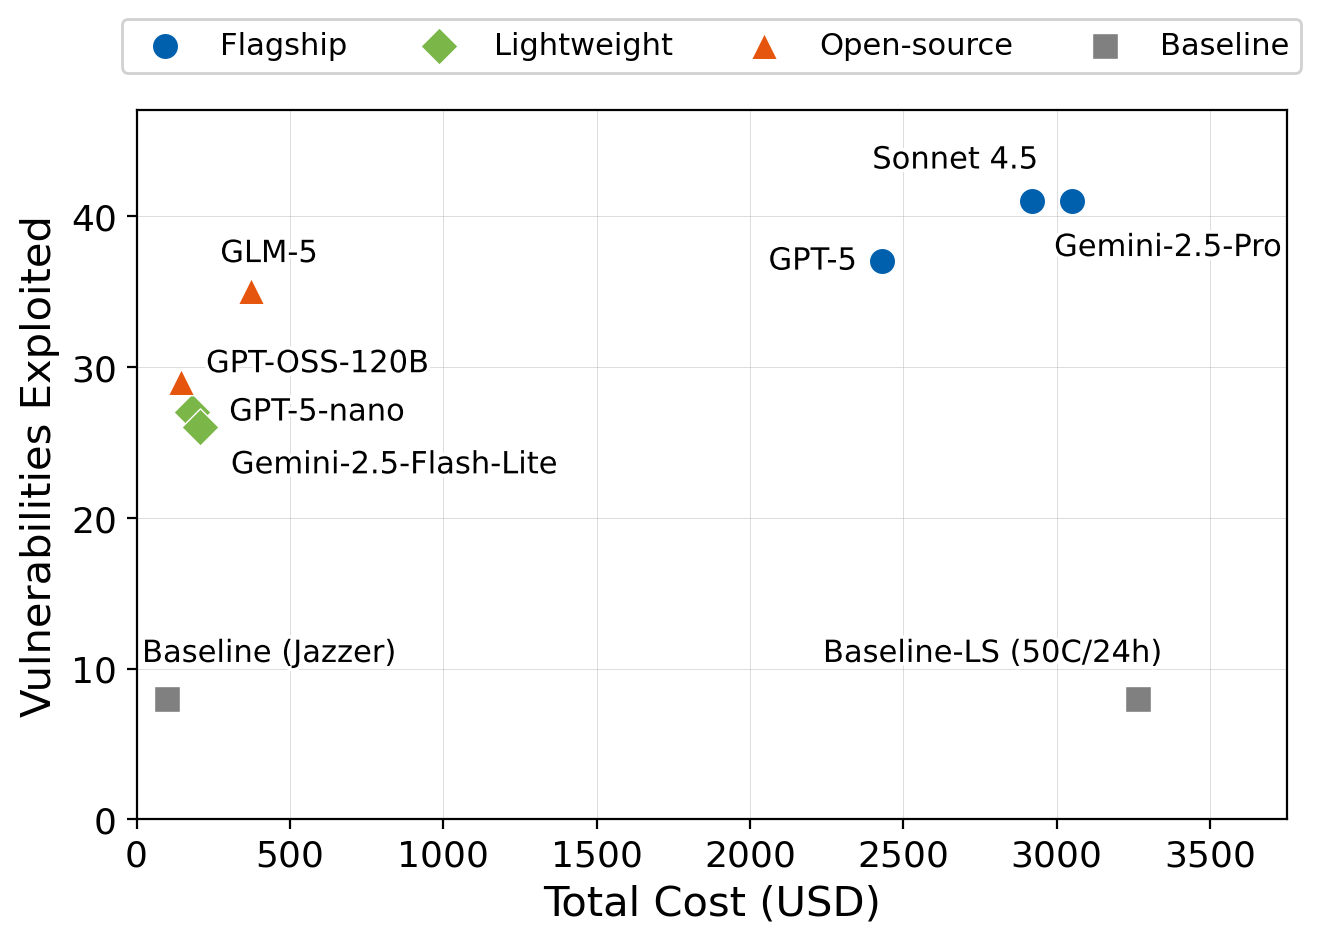
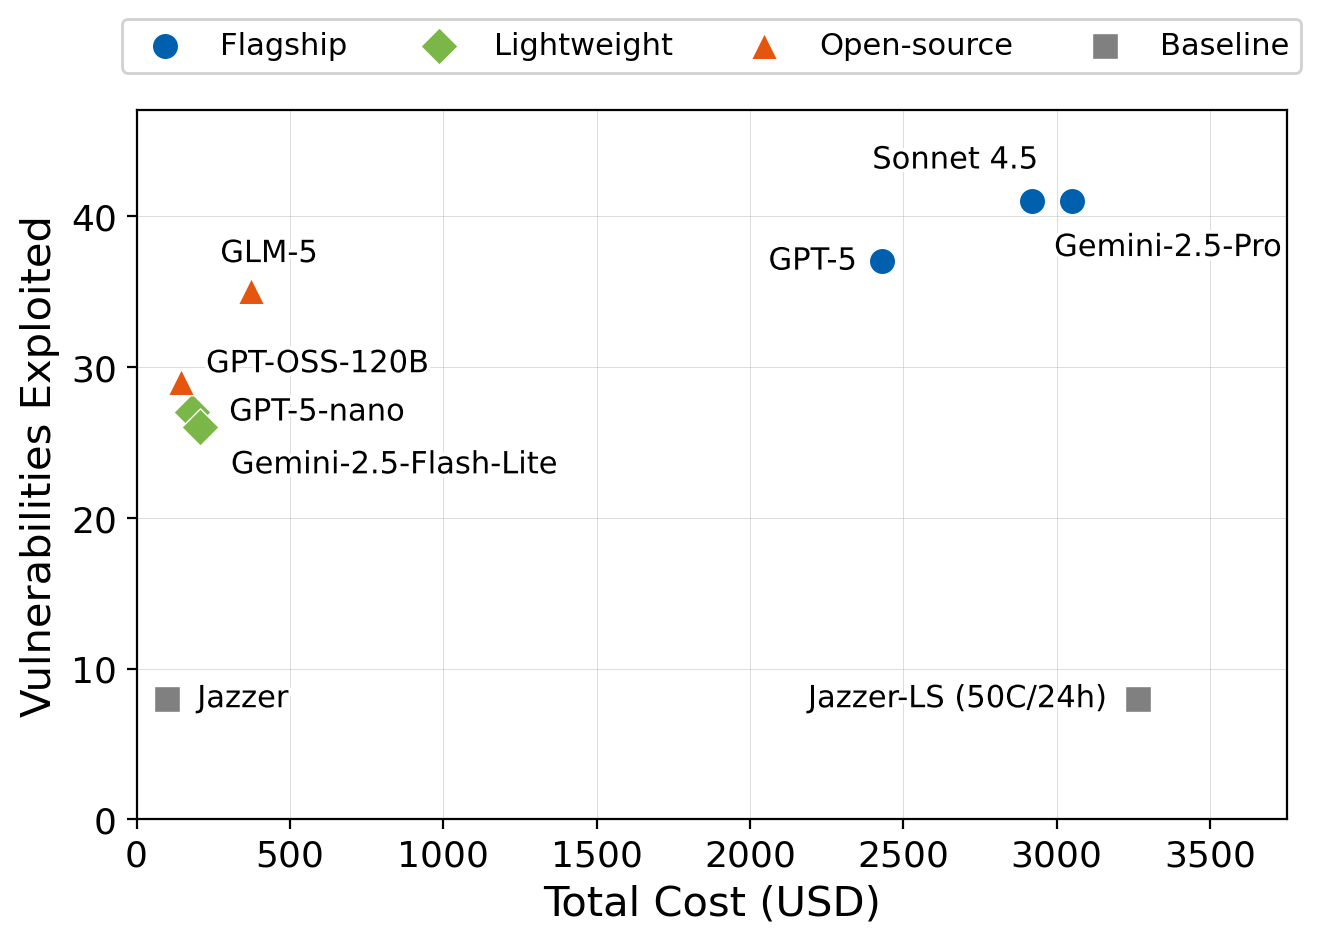
Update blog post

Changed region(s): [[0.6207, 0.6758, 0.869, 0.768], [0.0931, 0.6758, 0.3104, 0.768]]

diff --git a/content/english/blog/post-sinkfuzz-glm.md b/content/english/blog/post-sinkfuzz-glm.md
@@ -7,18 +7,22 @@ image: "/images/blog/sinkfuzz-glm/cover.png"
 categories: ["post-aixcc"]
 authors: ["Fabian Fleischer", "Cen Zhang"]
 tags: ["fuzzing", "java", "llm", "vulnerability discovery", "gondar"]
-draft: true
+draft: false
 ---
 
-As part of [Team Atlanta's](https://team-atlanta.github.io/) winning entry in the DARPA AIxCC competition, we built Gondar, a system that combines LLM agents with coverage-guided fuzzing to find security vulnerabilities in Java applications. Gondar served as part of the Java vulnerability discovery component of our Cyber Reasoning System (CRS). We wrote a [paper](https://example.com/TODO-preprint-link) about Gondar. This post isn't a summary of that paper. Instead, we want to share the three most surprising things we learned along the way.
+As part of [Team Atlanta's](https://team-atlanta.github.io/) winning entry in the DARPA AIxCC competition, we built Gondar, a system that combines LLM agents with coverage-guided fuzzing to find security vulnerabilities in Java applications. Gondar served as part of the Java vulnerability discovery component of our CRS (for details on the broader Java architecture, see our earlier posts on the [sink-centered approach](/blog/post-crs-java-overview), [directed fuzzing](/blog/post-crs-java-directed-jazzer), and [the exploitation kit](/blog/post-crs-java-expkit)).
+
+After AIxCC, we set out to evaluate Gondar rigorously under controlled, reproducible conditions. We wrote a [paper](https://example.com/TODO-preprint-link) about the results. This post covers the most interesting things we learned.
 
 ## Scaling Fuzzing Doesn't Solve the Problem
 
-The conventional assumption in fuzzing is straightforward: more compute, more bugs. We tested this directly. We ran [Jazzer](https://github.com/CodeIntelligenceTesting/jazzer), the state-of-the-art coverage-guided Java fuzzer, on 54 known vulnerabilities across 22 open-source Java projects in two configurations: a standard baseline with 3 cores and 12 hours per target, and a large-scale run with 50 cores and 24 hours per target (over 7.2 CPU-years of total computation).
+The conventional assumption in fuzzing is straightforward: more compute, more bugs. We tested this directly. We ran [Jazzer](https://github.com/CodeIntelligenceTesting/jazzer), the state-of-the-art coverage-guided Java fuzzer, on our benchmark in two configurations: a standard baseline with 3 cores and 12 hours per target, and a large-scale run with 50 cores and 24 hours per target (over 7.2 CPU-years of total computation).
+
+**The benchmark.** We built a dataset of **54 vulnerabilities across 22 open-source Java projects**, spanning 12 CWE types. It combines 19 CVE-based vulnerabilities with custom harnesses, 20 vulnerabilities from AIxCC challenges (reused with organizer approval), and 15 manually injected synthetic vulnerabilities modeled after real-world patterns. Five security researchers with 5-10 years of experience each contributed 15 person-weeks to develop it. We are currently preparing controlled access to the benchmark to support reproducibility while mitigating model contamination concerns.
 
 The result: both configurations exploited exactly 8 vulnerabilities. Scaling compute by 17x and doubling the time budget produced zero additional exploits. The large-scale run reached 3 more sinks (29 vs. 26), but couldn't convert any of them into working exploits. The failures fell into two categories: 46% of vulnerabilities were never even *reached*, and another 39% were reached but not *exploited*, what we call the "last-mile" problem.
 
-Why? Because the vulnerabilities that matter require semantic understanding, not random mutation. Triggering a deserialization vulnerability means constructing a valid archive with specific internal structure. Exploiting a path traversal requires crafting paths that bypass sanitization logic. Reaching a command injection sink might depend on satisfying a cryptographic check, like an HTTP header whose SHA-256 hash matches a specific value. No amount of bit-flipping will produce that.
+Why? Because these vulnerabilities require inputs with specific *structure and semantics* that random mutation cannot produce. Triggering a deserialization vulnerability means constructing a valid archive with correct internal structure. Exploiting a path traversal requires crafting paths that bypass sanitization logic. An XXE attack requires well-formed XML with specific entity definitions. Reaching a command injection sink might depend on satisfying a cryptographic check. These are not byte-level puzzles; they require understanding what the code expects and why.
 
 Half the targets reached 95% of their final coverage within 15 minutes. The remaining hours and cores contributed almost nothing. This isn't a resource gap. **It's a semantic gap.**
 
@@ -32,9 +36,11 @@ Jazzer exploits only 8 of 54 vulnerabilities regardless of whether it runs on 3 
 
 ## Gondar: Breaking Through the Semantic Wall
 
-Gondar is our response to this gap. Instead of throwing more CPUs at the problem, we combine LLM-based reasoning with fuzzing, targeting *sinks*: security-sensitive API calls like `Runtime.exec()`, `ProcessBuilder`, or SQL query methods where vulnerabilities actually manifest.
+Gondar is our response to this gap. Instead of throwing more CPUs at the problem, we combine LLM-based reasoning with fuzzing, targeting *sinks*: security-sensitive API calls like `Runtime.exec()`, `ProcessBuilder`, or SQL query methods where vulnerabilities actually manifest. (For a concrete code example of how sink knowledge drives Gondar's design, see the [motivating example in our Java CRS overview](/blog/post-crs-java-overview).)
 
-The system has three stages. First, **sink detection** identifies high-potential sinks in the target project by extracting candidates from CodeQL's sink database and filtering them through call graph analysis and LLM-based exploitability assessment, taking thousands of candidates down to a manageable set. Second, an **exploration agent** analyzes call paths from the program entry point to each sink, reads the source code along the path, and generates inputs designed to satisfy the constraints needed to reach it. Third, an **exploitation agent** receives inputs that successfully reach sinks (we call these "beep seeds") and iteratively develops proof-of-concept exploits by reasoning about the vulnerability-specific conditions needed to trigger Jazzer's sanitizers.
+The system has three stages. First, **sink detection** identifies high-potential sinks in the target project by extracting candidates from CodeQL's sink database and filtering them through call graph analysis and LLM-based exploitability assessment, taking thousands of candidates down to a manageable set. This static analysis pipeline is new compared to our AIxCC system; it wasn't needed during the competition where challenges came with known vulnerability types, but it is essential for practical use on arbitrary projects where the vulnerability landscape is unknown.
+
+Second, an **exploration agent** analyzes call paths from the program entry point to each sink, reads the source code along the path, and generates inputs designed to satisfy the constraints needed to reach it. Third, an **exploitation agent** receives inputs that successfully reach sinks (we call these "beep seeds") and iteratively develops proof-of-concept exploits by reasoning about the vulnerability-specific conditions needed to trigger Jazzer's sanitizers.
 
 Critically, these agents don't run in isolation. They operate concurrently with Jazzer and exchange artifacts in both directions: exploration seeds flow into the fuzzer's corpus for further mutation, while (fuzzer-)discovered beep seeds flow to the exploitation agent as concrete starting points. All exploitation outputs, even failed attempts, are fed back to the fuzzer, which may mutate a near-miss into a working exploit.
 
@@ -42,9 +48,23 @@ Critically, these agents don't run in isolation. They operate concurrently with 
 
 *Gondar's architecture. LLM agents and the fuzzer run concurrently, exchanging artifacts bidirectionally. Exploration seeds enrich the fuzzer's corpus; fuzzer-discovered beep seeds ground the exploitation agent's reasoning.*
 
-The result: **Gondar exploits 41 of 54 vulnerabilities, compared to Jazzer's 8**. That's over 5x as many on the same benchmark, at comparable or lower cost. Let's look into *why* this works.
+## Evaluation
 
-## LLMs and Fuzzers Are Complementary, Not Interchangeable
+### Overall Results
+
+The scatter plot below shows vulnerabilities reached (x-axis) versus exploited (y-axis) across all 15 configurations: 7 Gondar model variants, 3 ablations, and 5 baselines. Upper-right is better.
+
+<div class="narrow-fig">
+{{< image src="images/blog/sinkfuzz-glm/tool-coords.png" position="center" class="img-fluid" >}}
+</div>
+
+*Vulnerabilities reached vs. exploited for all configurations. Gondar configurations (blue) cluster in the upper-right; baselines (gray) sit in the lower-left. Ablations (orange) show the impact of removing individual components.*
+
+The headline: **Gondar exploits 41 of 54 vulnerabilities with its best configuration (Gemini-2.5-Pro), compared to Jazzer's 8**. That's over 5x as many on the same benchmark, at comparable or lower cost. Even the cheapest Gondar configuration (GPT-5-nano at <span>$</span>182 total) exploits 27 vulnerabilities, still over 3x the baseline.
+
+The ablations tell a clear story too: removing the exploration agent (XO) drops reached vulnerabilities from 42 to 29; removing the exploitation agent (RO) drops exploited from 37 to 18. Both components are critical. But two findings stood out to us in particular.
+
+### Finding: LLMs and Fuzzers Are Complementary, Not Interchangeable
 
 It's tempting to think of LLMs as a replacement for fuzzers, or vice versa. Our results show the opposite: they have fundamentally different strengths, and the combination is greater than the sum of its parts.
 
@@ -56,7 +76,7 @@ The strongest evidence: **9 vulnerabilities** in our benchmark are **found *only
 9 vulnerabilities are discovered only through agent-fuzzer collaboration. Neither component finds them independently; the combination outperforms the sum of its parts.
 {{< /finding >}}
 
-## You Don't Need a Flagship Model
+### Finding: Open-Source Models Deliver Near-Flagship Performance
 
 After validating Gondar's design with flagship models (GPT-5, Gemini-2.5-Pro, and Claude Sonnet 4.5, which exploit 37-41 vulnerabilities at <span>$</span>2,400-<span>$</span>3,000 total), we asked the natural follow-up: how much does the model actually matter?
 
@@ -75,7 +95,7 @@ GLM-5 (open-source) exploits 35 vulnerabilities at <span>$</span>373 total, more
 
 *Cost versus vulnerabilities exploited across all configurations. GLM-5 sits in the sweet spot: near-flagship effectiveness at a fraction of the cost. Large-scale fuzzing (Baseline-LS) costs the most while finding the fewest vulnerabilities.*
 
-## What This Means
+## Beyond the Benchmark
 
 These results go beyond our benchmark. Static analysis tools like CodeQL and SpotBugs miss 63-74% of the vulnerabilities we tested, not because they're bad tools, but because they're solving a different problem. And during AIxCC, Gondar discovered 7 zero days in real-world projects, which were disclosed to the software maintainers.
 
